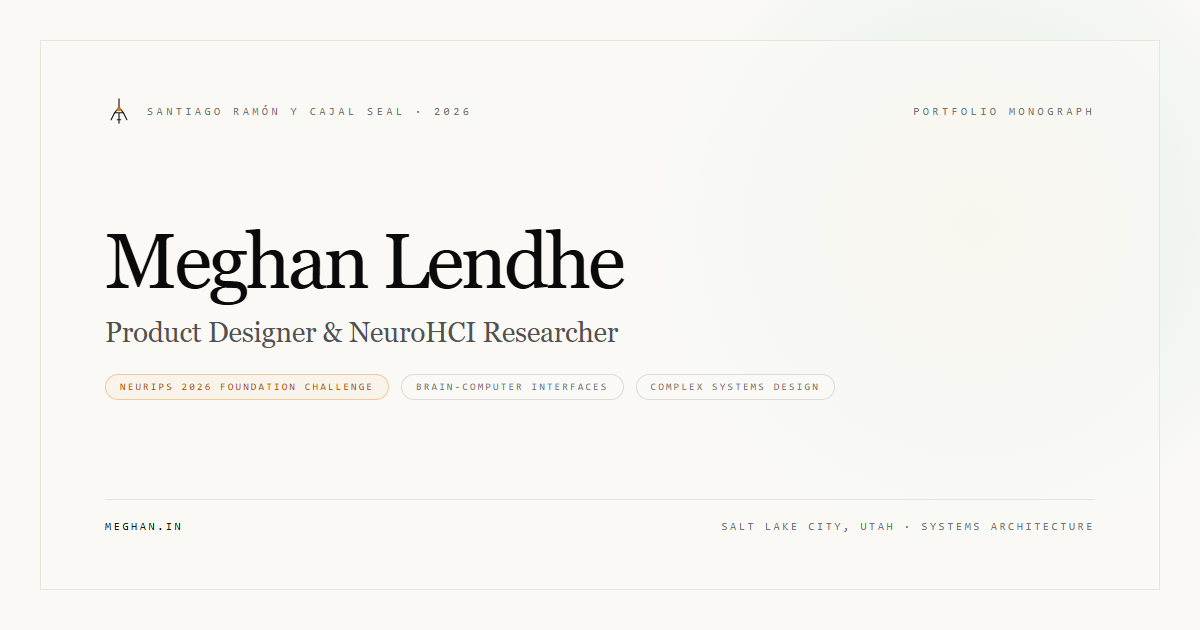
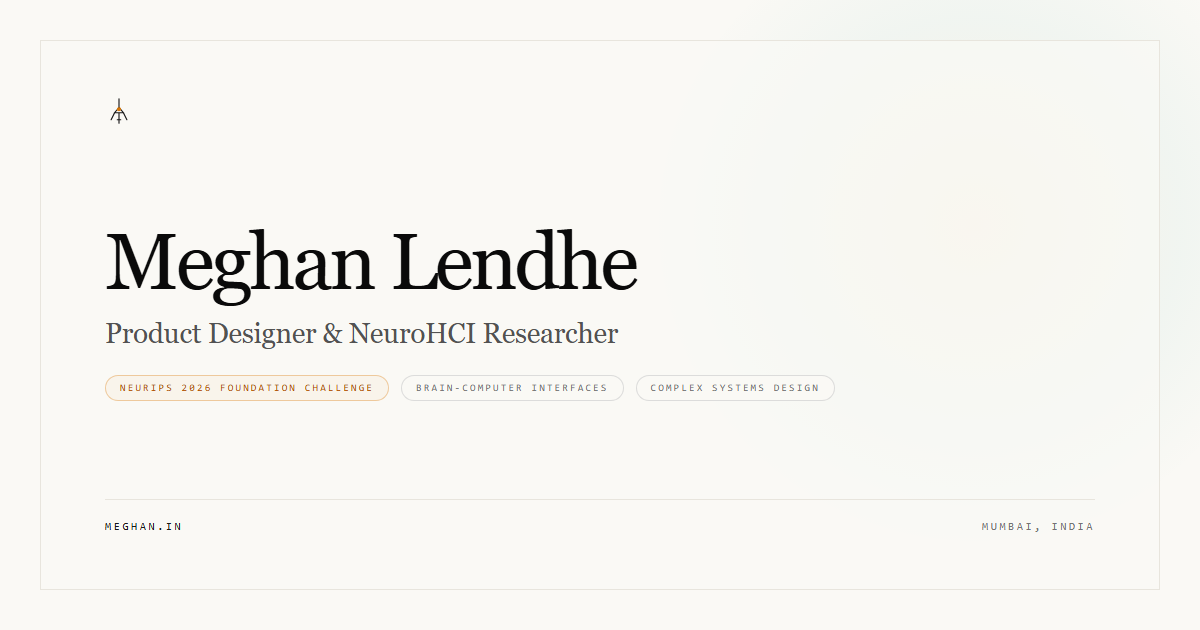
feat(seo): refresh OpenGraph card and support per-project social previews

diff --git a/public/assets/og-card.html b/public/assets/og-card.html
@@ -70,14 +70,6 @@
       color: #171717;
     }
 
-    .meta-tag {
-      font-family: 'JetBrains Mono', monospace;
-      font-size: 11px;
-      letter-spacing: 0.32em;
-      text-transform: uppercase;
-      color: #737373;
-    }
-
     /* Center Content */
     .center-content {
       display: flex;
@@ -86,7 +78,7 @@
     }
 
     .title {
-      font-size: 78px;
+      font-size: 80px;
       font-weight: 300;
       line-height: 0.95;
       letter-spacing: -0.04em;
@@ -159,9 +151,7 @@
           <path d="M16 2v10M16 12l-5 6h10l-5-6ZM11 18l-4 8M21 18l4 8M16 18v12M14 26h4" />
           <circle cx="16" cy="14" r="1.75" fill="#D97706" stroke="#D97706" />
         </svg>
-        <span class="meta-tag">Santiago Ramón y Cajal Seal · 2026</span>
       </div>
-      <span class="meta-tag">Portfolio Monograph</span>
     </div>
 
     <!-- Center Content -->
@@ -179,7 +169,7 @@
     <!-- Footer -->
     <div class="footer">
       <span class="domain">meghan.in</span>
-      <span>Salt Lake City, Utah · Systems Architecture</span>
+      <span>Mumbai, India</span>
     </div>
   </div>
 </body>
